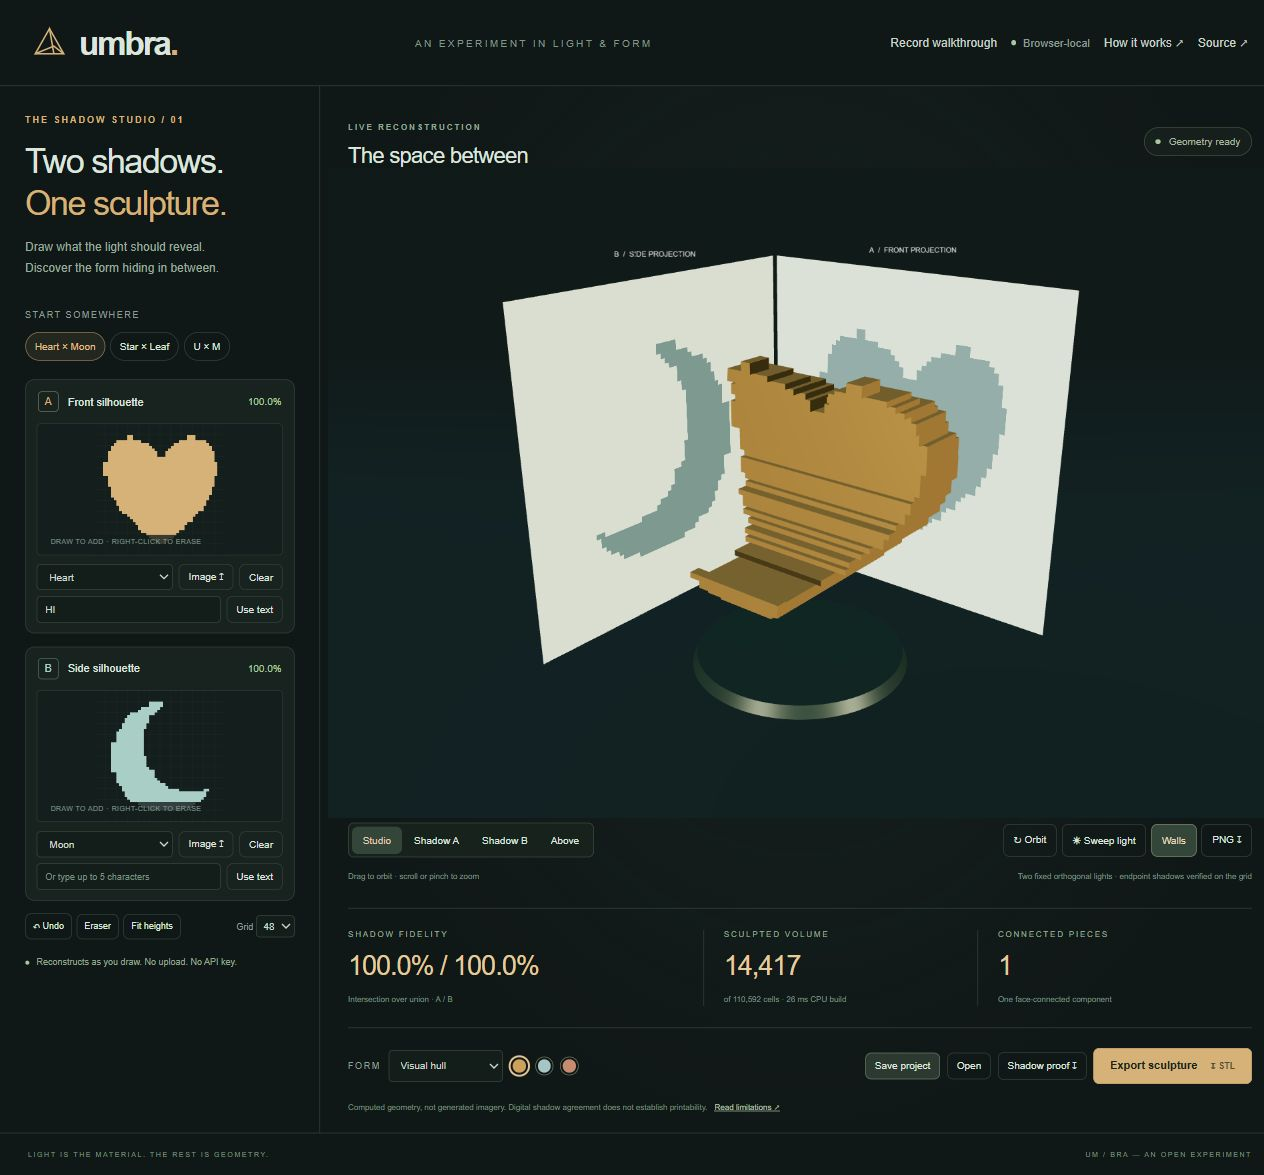
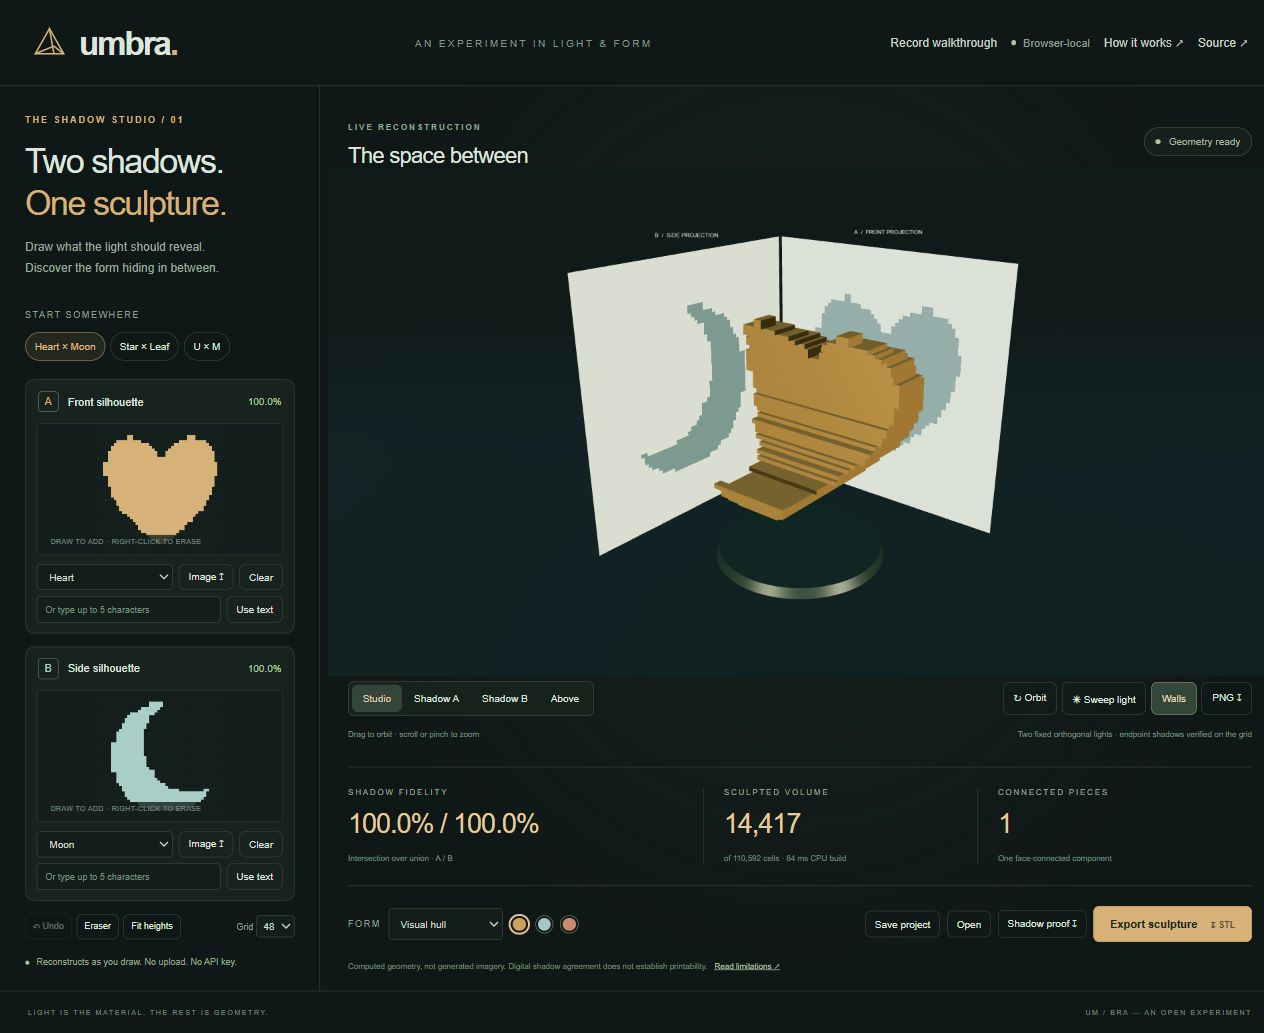
Add published demonstration and final end-to-end validation evidence

diff --git a/docs/SUBMISSION.md b/docs/SUBMISSION.md
@@ -1,0 +1,37 @@
+**General Track — Arbiter Hacks V1**
+
+## Inspiration
+Shadow art makes an ordinary object carry more than one meaning. Designing it usually requires understanding geometry or working through a complicated modeling workflow. Umbra asks a simpler question: what if you could start with the two shadows you want, then inspect the form that makes them possible?
+
+## What it does
+Draw two silhouettes, enter short text, or import a dark-on-light image. Umbra reconstructs their shared voxel volume and displays a sculpture under two real-time directional lights. Change either target and the geometry updates. Explore endpoint views, materials, orbit and a moving light.
+
+The interface also checks its own result. It projects the occupied cells back onto both target grids and reports intersection-over-union scores. When one target contains a horizontal row absent from the other, the app marks the missing pixels and explains why the pair cannot work. An explicit repair adds support pixels to the missing target rows and tells you exactly how the specification changed.
+
+Reduced-material mode preserves both endpoint projections while retaining fewer cells. The interface reports disconnected components so a visually attractive result is not mistaken for a physically ready object. Export the actual STL geometry, an editable JSON project, a stage image, or an SVG grid proof. Drawings and imports remain local to the browser.
+
+## How it was built
+JavaScript ES modules separate the pure geometry engine, canvas mask tools, Three.js rendering and editor state. The core is a deterministic orthogonal visual hull: a cell exists only when both target projections permit it. Forward projection verifies each target independently. Material reduction covers all occupied samples within each row; component analysis uses face adjacency. Boundary meshing omits shared interior faces and writes a binary STL.
+
+Vite bundles the app into static assets, including its dependencies. It runs without model credentials, runtime CDN imports, remote fonts, analytics or server-side image processing. The repository includes setup instructions, architecture, tests, prior-art citations and limitations.
+
+## Challenges
+The hardest product issue is distinguishing an attractive rendering from a supported claim. Some target pairs are impossible; some valid pairs produce disconnected pieces. Umbra exposes both. Its exact binary-grid proof is separate from the filtered shadow maps used for real-time presentation, and its STL export explicitly does not certify printability.
+
+## Validation
+Nine automated tests pass, covering exact recovery, incompatible-row detection, explicit repair, material-reduction projection preservation over varied inputs, component counting, mesh winding, shared-face removal, STL structure and project validation. Production builds and GitHub CI pass. Actual desktop Chrome checks cover custom text, reduced material, incompatible targets, repair and exports. The saved STL's triangle count and byte length were checked independently. A 390-pixel responsive viewport was inspected; actual iPhone hardware and physical fabrication have not been validated.
+
+## Originality and AI disclosure
+Visual hull reconstruction and computational shadow art are established techniques. In particular, Mitra and Pauly's [Shadow Art (2009)](https://graphics.stanford.edu/~niloy/research/shadowArt/shadowArt_sigA_09.html) is important prior art. Umbra does not claim a new inverse-graphics algorithm. This entry contributes its implemented editing, evidence, repair and portable-export workflow.
+
+This is a fresh Umbra implementation started November 1, 2026. AI assistance was used extensively for project selection, implementation, tests, design, documentation and demo preparation. The application itself does not use an AI model: image thresholding and geometry are deterministic. The video is an explicitly automated walkthrough recorded from the actual running engine, with synthetic narration using an installed system voice. There are no fabricated users, outcome metrics or physical-test results.
+
+## What is next
+Improve connected geometry construction, add manufacturing-aware thickness constraints, evaluate the editor with artists and students, and validate physical output. These are future work, not current capabilities.
+
+## Links
+- [Public demo](https://shivapriyanshanmuga.github.io/umbra-shadow-studio/)
+- [Public source](https://github.com/ShivaPriyanShanmuga/umbra-shadow-studio)
+- [Architecture and setup](https://github.com/ShivaPriyanShanmuga/umbra-shadow-studio#readme)
+- [Validation](https://github.com/ShivaPriyanShanmuga/umbra-shadow-studio/blob/main/docs/VALIDATION.md)
+- [Limitations](https://github.com/ShivaPriyanShanmuga/umbra-shadow-studio/blob/main/docs/LIMITATIONS.md)

diff --git a/docs/VALIDATION.md b/docs/VALIDATION.md
@@ -35,3 +35,7 @@ Physical fabrication, actual iPhone use, user-study outcomes and arbitrary-model
 ## Hosted and responsive verification
 The public GitHub Pages build was opened in Chrome without a sign-in gate. At an explicit 390-pixel viewport, innerWidth was 390 and document scrollWidth was 375, with no horizontal overflow; a full-page screenshot was visually inspected. The narrow layout moves the studio before the drawing tools. This is a desktop browser viewport check, not actual iPhone hardware testing. GitHub Actions test/build run 41353990650 and Pages deployment run 41354025756 completed successfully. A separate owner-private Sites deployment also succeeded.
 
+
+## Additional end-to-end checks
+On the public app, a direct pointer drag changed front-target IoU to 97.8%, produced four incompatible rows, and changed geometry volume to 14,515 cells. Undo restored the prior design. A real saved JSON was opened through the file chooser; the app recomputed 14,417 cells and 100%/100% agreement. Reload preserved the project. Stage PNG export produced an 87,288-byte file. The final live-runtime WebM was converted to H.264/AAC MP4: ffprobe reports 1280x720, 30fps, exactly 150.000 seconds. Representative frames were visually inspected. The narrated video was published unlisted on YouTube at https://youtu.be/C3oyfSfpNKQ; YouTube's copyright check reported no issues at publication time. No claim is made that future copyright checks cannot change.
+

diff --git a/README.md b/README.md
@@ -80,3 +80,7 @@ See [validation](docs/VALIDATION.md), [prior art](docs/RESEARCH.md), and [limita
 Visual hulls and computational shadow art are established. This implementation explores a compact, local-first draw → reconstruct → verify → export experience. Prior concepts were brainstormed with AI; this is a fresh implementation of Umbra. Three.js and Vite are dependencies; their exact pinned versions were reused from an existing local dependency installation after sandbox DNS prevented a fresh install. No old application source was copied. AI assistance contributed code, tests, design, documentation and demonstration preparation. See [third-party notices](THIRD_PARTY.md).
 
 MIT licensed. See [LICENSE](LICENSE).
+
+## Working demonstration
+[Watch the narrated automated walkthrough](https://youtu.be/C3oyfSfpNKQ). The recording runs the actual geometry and renderer. Synthetic system-voice narration and extensive AI development assistance are disclosed. See docs/SUBMISSION.md for the written hackathon description.
+
